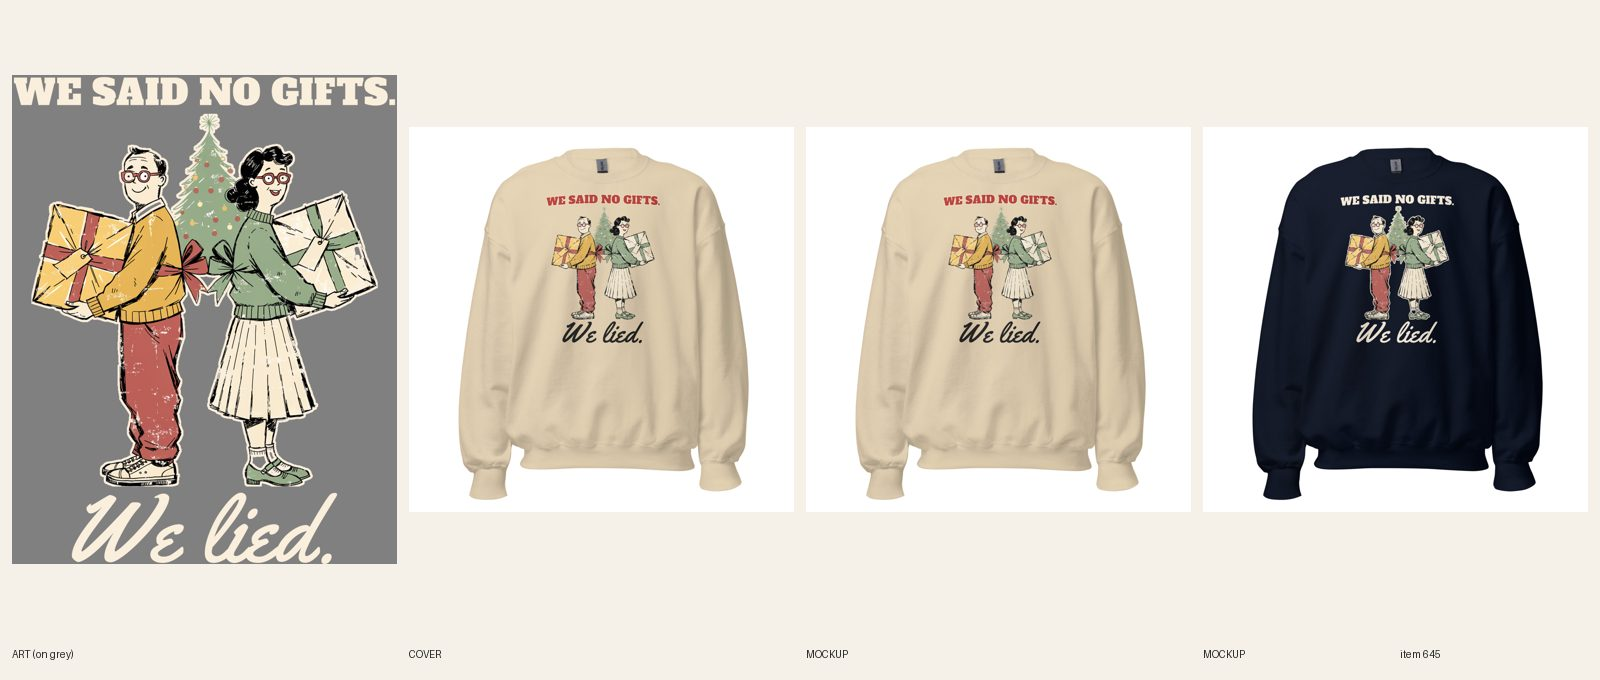
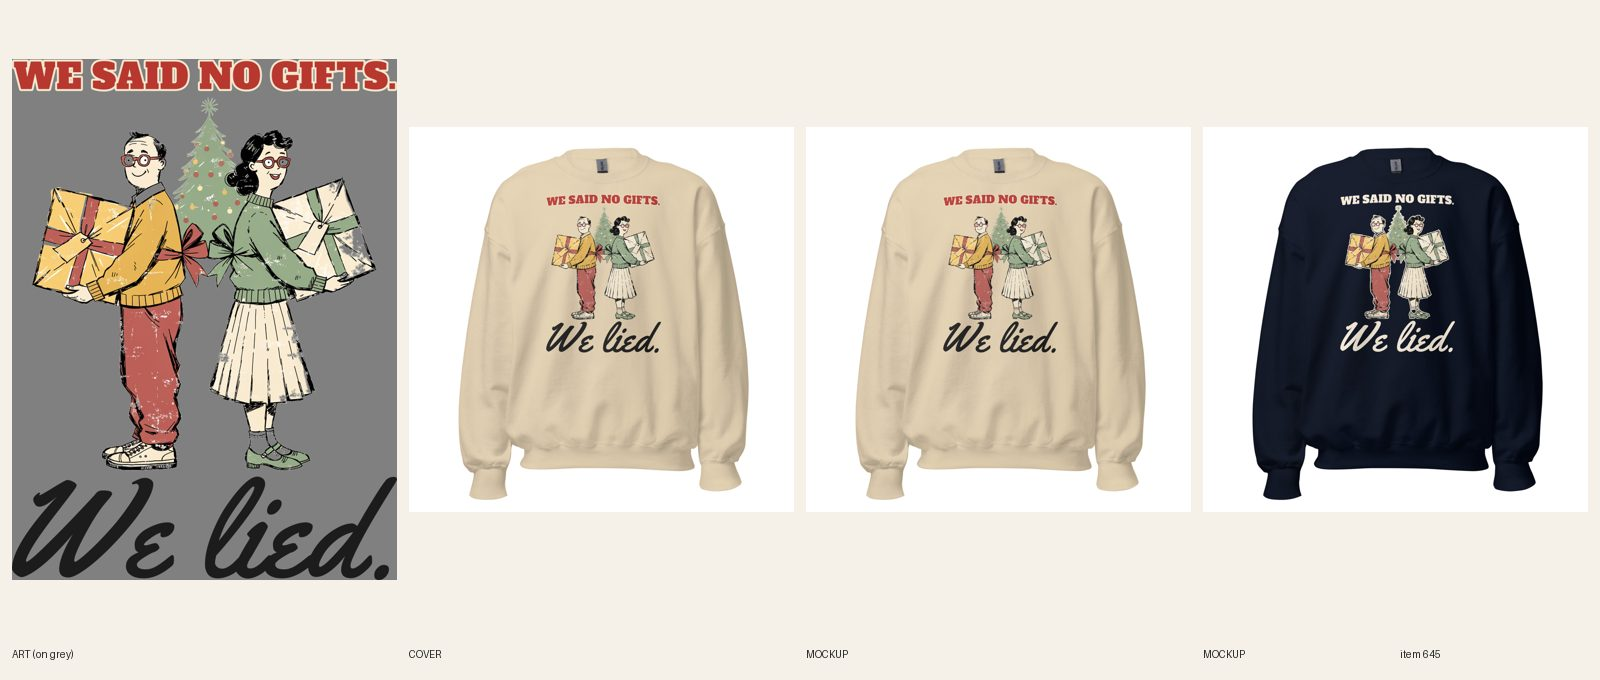
[A] review 645 (redo)
Claude-Session: https://claude.ai/code/session_01LaaEYpKaSBZd9opL7Tpo7i

diff --git a/docs/pipeline/645-christmas-crewneck-we-said-no-gifts.md b/docs/pipeline/645-christmas-crewneck-we-said-no-gifts.md
@@ -1,4 +1,4 @@
-status: REDO
+status: REVIEW
 lane: A
 type: twin
 id: 645
@@ -26,3 +26,4 @@ kd: 14
 - 2026-10-18 09:29 UTC director: brief written, READY (lane A twin; primary 'couples christmas sweatshirts' 5,400 / KD 14, measured this run).
 - 2026-10-20 13:25 UTC builder [A]: BUILT (twin of LIVE #634 tee, DRAFT; plain product shot per R6.11, no AI cover). R6.2 check on the source print (#634 file 1088976637, 3139x3985): WE SAID NO GIFTS. is a real slab face with a cream edge, We lied. a real script face; no ring, arch, disc, box or typeset line; the couple and tree have no frame or panel. The tee was graded A and is LIVE, so the twin keeps its lockup. Light-file split (R5.3.8, builder 7e): White, Sand, Sport Grey, Ash on the tee's dark-ink file 1090373362 (red headline, black script); Navy on its own file 1090373373 (headline and script recolored cream, the headline's old cream edge dropped, cream outline around the couple so the linework reads); read at phone size on all five mockups. Widths (7h): headline 3139 px, We lied. script 2163 px (69% of the headline, a big script punchline as on the live tee); subject 3139 px. FW 1650 TOP 75. DRAFT gid://shopify/Product/15369764667696 (Gildan 18000, White/Sand/Sport Grey/Ash/Navy x S-3XL = 30, $34.99, no compare-at, category aa-1-13-14, tags christmas-sweatshirts, christmas-sweatshirts-for-men, sweatshirt, christmas, ai-art, intake-done). Printful sync 483385452 verified 30/30 (light colors on 1090373362, Navy on 1090373373, back logo 1080398177). Five fronts + back attached, each front mockup linked to its color's variants, alts per R7.8. Copy: line one carries the line + who wears it + when, plain; primary 'couples christmas sweatshirts' (5,400 / KD 14 per brief), each crewneck sold singly (two in the cart for a pair, R8.6), no 'one of the' opener; FAQs 5 at 53-59 words incl. the pair FAQ, order-by Dec 8, free size exchange; ink named from the mockups. Keyword map updated. design-crops / variant-photo-audit after publish. fal $0. Audit: only the expected not-visible (DRAFT) error. Sheet docs/review/645.jpg.
 - 2026-10-20 14:40 UTC director: REDO from docs/review/645.jpg (stays DRAFT). 1. R3.7.8 (2026-10-20): We lied. is the punch and sits at about 65% of WE SAID NO GIFTS.'s width on Sand and Navy, so the joke reads as a signature under the art. Set We lied. at least as wide as the headline (the heavy script may stay, or break it as WE / LIED. in the headline font), cream on Navy, dark ink on Sand. 2. The live tee #634 carries the same print and goes to REDO with this note so the pair matches (#616/#617 precedent): build one corrected file, link it to both, remake both sheets.
+- 2026-10-20 16:12 UTC builder [A]: REDO done (director 2026-10-20 14:40, R3.7.8: We lied. at about 65% of the headline's width). One corrected print for both twins (#634 tee and #645 crewneck, the #616/#617 precedent). Kept the heavy black script We lied. (it is the live tee's A-grade look), re-scaled it to the full print width: "headline 3139 px / punch 3139 px" on the light file (Navy file: headline 3107 px / punch 3139 px), script band 843 px tall (was 581 px), so the punch is now the loudest line; art and headline untouched. Print 3139x4247 (Navy 3139x4230), FW 1650 TOP 75 (about 14.5 in tall on the 16 in print area). Light-file split (R5.3.8): White, Sand, Sport Grey, Ash on file 1090461315 (red headline, black script); Navy on file 1090461324 (cream headline and script, cream outline around the pair). Relinked and verified on the Printful API below (crewneck sync 483385452: 24 on 1090461315, 6 on 1090461324). 5 fronts replaced in place (fileUpdate), phone-size read ok on all 5; the script spans the full width on White and Navy. Copy unchanged (the lettering sentence already says big black script / cream). Sheet remade. fal $0. audit PASS; build ok.

diff --git a/docs/intake-log.md b/docs/intake-log.md
@@ -1,4 +1,5 @@
 RUNNING lane B since 2026-10-20 16:10 UTC
+2026-10-20 16:12 UTC — [A] Builder run: #645 We lied. punch at full width, 30/30 relinked. REVIEW. fal $0.
 RUNNING lane B since 2026-10-20 16:25 UTC
 2026-10-20 16:11 UTC — [E] Builder run: built #704 Women's Hiking Here for the View, Not the Incline cropped hoodie (new art, Storm only 5/5 synced because Peach is out of stock, flat-shot cover). REVIEW. fal $0.04. Lane E lock released; #722/#723 Frenchie hoodies still READY for the next lane E run.
 2026-10-20 15:52 UTC — [H] Helper run: Telegram inbox empty (getUpdates returned 0 updates; no pause, resume or TikTok links; nothing to consume). Audit 610 live products: 0 errors, 34 warnings left alone; committed docs/cohesion-audit.md and .json. Category check: 0 products without a Shopify category (query empty, no mutation). Site check: mens-welder-grinder-and-paint-department-hoodie, mens-electrician-its-probably-the-breaker-graphic-tee, mens-plumber-not-looking-at-your-sink-graphic-tee all 200. Stuck work: none (only BUILDING is #658, lane E claim 15:29; lane A lock 14:12 under 2h and lane A committed 15:50). Daily summary not due (sent at the 12:49 run). Lock released.
